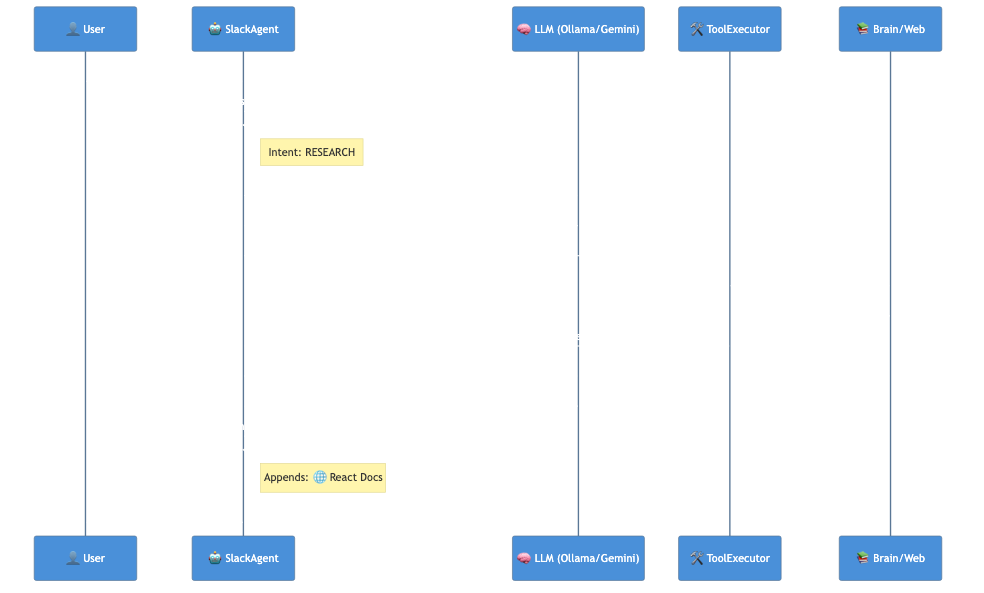
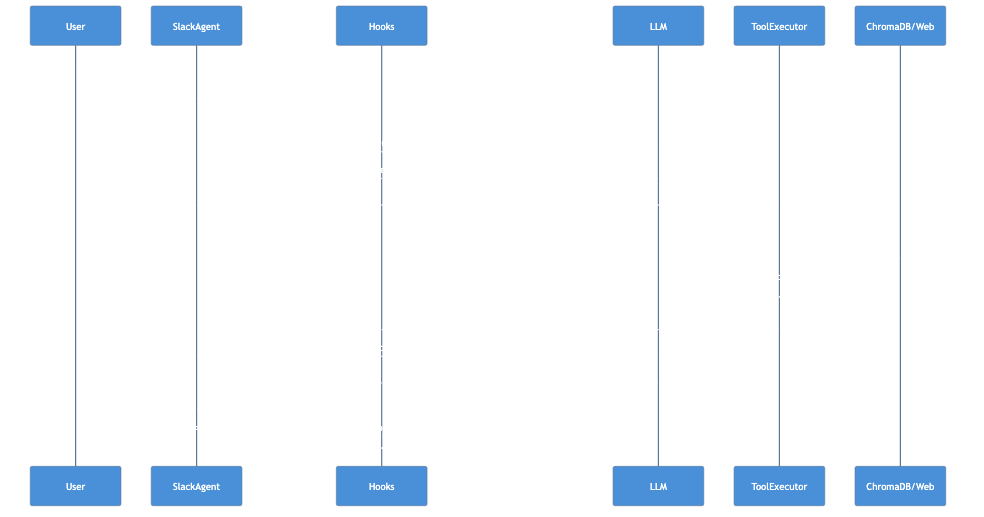
Enhanced Developer Guide with detailed NUC/hardware docs
- Added comprehensive NUC-1 details (ChromaDB, Vaultwarden, Syncthing)
- Added NUC-3 details (Backups, Restic, Storage)
- Added Mac Mini details (Ollama, model specs, privacy)
- Created Hardware & Network Prerequisites section
- Improved Request Flow documentation
- Regenerated tool_loop_sequence diagram with correct flow

diff --git a/docs/DEVELOPER_GUIDE.html b/docs/DEVELOPER_GUIDE.html
@@ -42,27 +42,98 @@
     <h2>1. System Architecture</h2>
     
     <h3>The "Mesh" (Physical & Logical)</h3>
-    <p>The system is distributed across four physical nodes:</p>
+    <p>The system is distributed across four physical nodes in a fault-tolerant mesh architecture:</p>
+    
+    <h3>🖥 NUC-1: Orchestrator & Knowledge Hub</h3>
+    <p><strong>Role:</strong> Central orchestration, semantic search, secret management.</p>
     <ul>
-        <li><strong>NUC-1:</strong> Orchestrator, ChromaDB (Vector DB), Vaultwarden (Secrets).</li>
-        <li><strong>NUC-2:</strong> Agent Host (Slack Bot Service).</li>
-        <li><strong>NUC-3:</strong> Storage (Backups, Large Files).</li>
-        <li><strong>Mac Mini:</strong> Inference (Ollama/Llama 3.2).</li>
+        <li><strong>ChromaDB (Vector Database):</strong> Semantic search index over your brain notes. All `/brain_search` queries hit this service.</li>
+        <li><strong>Vaultwarden (Secrets Manager):</strong> Encrypted storage for API keys, tokens, and credentials. Never stored in plaintext.</li>
+        <li><strong>Syncthing (Introducer):</strong> Coordinates file sync between NUC-2, NUC-3, and NUC-1.</li>
+        <li><strong>Docker Stack:</strong> Runs Khoj (or replacement) service for indexed content.</li>
+        <li><strong>Key Endpoint:</strong> <code>http://nuc-1.local:42110/api/search</code> for brain content retrieval.</li>
     </ul>
+    <p><strong>For Developers:</strong> When working with `/brain_search`, understand that NUC-1 is the latency bottleneck. ChromaDB query performance directly affects user experience.</p>
 
-    <h3>The Tool Loop Sequence</h3>
-    <p>Understanding how the Agent thinks is critical for extending it.</p>
+    <h3>🖥 NUC-2: Agent Host (Slack Bot Service)</h3>
+    <p><strong>Role:</strong> The active brain—runs the Slack bot and coordinates all tool execution.</p>
+    <ul>
+        <li><strong>SlackAgent Service:</strong> The main Python process running in `systemd` as <code>brain-slack-bot</code>.</li>
+        <li><strong>Python Environment:</strong> Virtual environment at <code>~/agents/venv</code>.</li>
+        <li><strong>Tool Execution Engine:</strong> All tool invocations (brain_search, web_search, facts) run here.</li>
+        <li><strong>Syncthing Sync:</strong> Keeps <code>/home/earchibald/brain</code> in sync with NUC-1 and NUC-3.</li>
+        <li><strong>Logs:</strong> <code>journalctl -u brain-slack-bot -f</code> for live debugging.</li>
+    </ul>
+    <p><strong>For Developers:</strong> NUC-2 is where you deploy your changes. All testing should happen here before production rollout.</p>
+
+    <h3>🖥 NUC-3: Storage Hub & Backup</h3>
+    <p><strong>Role:</strong> Persistent file storage, backups, and off-site replication.</p>
+    <ul>
+        <li><strong>NAS Storage:</strong> Syncthing target for brain folder backups.</li>
+        <li><strong>Restic Backups:</strong> Local encrypted backups to external drive and pCloud via rclone.</li>
+        <li><strong>Docker Syncthing:</strong> Runs Syncthing in a container with stable configuration.</li>
+        <li><strong>Backup Scripts:</strong> Automated daily backup via <code>backup_brain.sh</code> (3 AM) and <code>sync_to_pcloud.sh</code> (3:30 AM).</li>
+        <li><strong>Cron Jobs:</strong> Monitoring and health checks for backup integrity.</li>
+    </ul>
+    <p><strong>For Developers:</strong> NUC-3 failure affects backups, not live operations. NUC-1 and NUC-2 can run independently.</p>
+
+    <h3>💻 Mac Mini: Inference Engine</h3>
+    <p><strong>Role:</strong> Local LLM inference for privacy and speed.</p>
+    <ul>
+        <li><strong>Ollama Service:</strong> Runs LLM models locally at <code>http://m1-mini.local:11434</code>.</li>
+        <li><strong>Models Loaded:</strong>
+            <ul>
+                <li><code>llama3.2</code> (Active) - Fast, 8B parameters, good context understanding.</li>
+                <li><code>nomic-embed-text</code> (Embedding) - For semantic search vector generation.</li>
+            </ul>
+        </li>
+        <li><strong>100% Private:</strong> All inference stays on your network. No external API calls for Ollama mode.</li>
+        <li><strong>Environment:</strong> <code>OLLAMA_HOST=0.0.0.0</code> enables network access from NUCs.</li>
+    </ul>
+    <p><strong>For Developers:</strong> If inference is slow, check Mac Mini CPU load. Ollama will queue requests if overloaded.</p>
+
+    <h3>The Request Flow (How Every Message Gets Processed)</h3>
+    <p>Understanding the complete request lifecycle is critical for debugging and extending the agent.</p>
     <div class="img-container">
         <img src="report_images/tool_loop_sequence.png" alt="Tool Loop Sequence Diagram">
     </div>
 
+    <ol>
+        <li><strong>Intent Classification:</strong> Pre-process hook (<code>hooks/intent_classifier.py</code>) analyzes the message to classify intent (RESEARCH, KNOWLEDGE, PERSONAL, etc.).</li>
+        <li><strong>LLM Prompt Generation:</strong> SlackAgent constructs the prompt with tools available based on intent classification.</li>
+        <li><strong>Tool Execution:</strong> ToolExecutor (<code>tools/tool_executor.py</code>) parses LLM output and executes selected tools safely with timeouts.</li>
+        <li><strong>Source Tracking:</strong> Each tool records its sources. SourceTracker (<code>hooks/source_tracker.py</code>) maintains context-local tracking.</li>
+        <li><strong>Citation Generation:</strong> Post-process hook (<code>hooks/citation_hook.py</code>) formats citations and appends them to the response.</li>
+    </ol>
+
+    <p><strong>Key Implementation Files:</strong></p>
     <ul>
-        <li><strong>Intent Classification:</strong> <span class="badge">hooks/intent_classifier.py</span> Pre-processes messages to determine context.</li>
-        <li><strong>Tool Execution:</strong> <span class="badge">tools/tool_executor.py</span> Parses LLM output and executes Python functions safely.</li>
-        <li><strong>Source Tracking:</strong> <span class="badge">hooks/source_tracker.py</span> Records every tool usage to generate citations later.</li>
+        <li><code>agents/slack_agent.py</code> - Main orchestrator. Entry point for all logic.</li>
+        <li><code>slack_bot/hooks/</code> - Pre and post-processing hooks for extensibility.</li>
+        <li><code>slack_bot/tools/tool_executor.py</code> - Safe, isolated execution environment with 15-second timeout.</li>
+        <li><code>slack_bot/tools/builtin/</code> - Built-in tools: brain_search, web_search, facts.</li>
     </ul>
 
-    <h2>2. Development Workflow ("The Flow")</h2>
+    <h2>2. Hardware & Network Prerequisites</h2>
+    
+    <h3>Network Topology</h3>
+    <ul>
+        <li>All NUCs and Mac Mini are on the same local network (192.168.x.x).</li>
+        <li>Service discovery via mDNS: <code>nuc-1.local</code>, <code>nuc-2.local</code>, <code>nuc-3.local</code>, <code>m1-mini.local</code>.</li>
+        <li>SSH passwordless access configured for <code>earchibald@</code> user on all hosts.</li>
+        <li>Syncthing mesh keeps all three NUCs in continuous sync.</li>
+    </ul>
+
+    <h3>Service Dependencies</h3>
+    <p>Before extending the system, understand the dependency chain:</p>
+    <pre><code>SlackAgent (NUC-2)
+    ├─ Ollama (Mac Mini) - For inference
+    ├─ ChromaDB (NUC-1) - For semantic search
+    ├─ Vaultwarden (NUC-1) - For secrets
+    └─ Syncthing (All) - For file sync</code></pre>
+    <p>If any dependency is down, the bot degrades gracefully (falls back to chat-only mode).</p>
+
+    <h2>3. Development Workflow ("The Flow")</h2>
     <div class="callout">
         <strong>Core Philosophy:</strong> Test First. Deploy Safer.
     </div>
@@ -82,11 +153,17 @@ pip install -r requirements-dev.txt
         <li><strong>Refactor:</strong> Move the test to <code>tests/unit/</code> or <code>tests/integration/</code>.</li>
     </ol>
 
-    <h3>Running Locally</h3>
-    <p>Use the master script to run the agent locally with mocked Slack events:</p>
-    <pre><code>./run_agent.sh --local</code></pre>
+    <h3>Running Locally (Mac Mini or NUC-2)</h3>
+    <p>For local testing without Slack integration:</p>
+    <pre><code>./run_agent.sh --local --debug</code></pre>
+    <p>This mocks Slack events and lets you test the full request flow without restarting the service.</p>
+    <p><strong>For remote testing on NUC-2:</strong></p>
+    <pre><code>ssh nuc-2.local
+cd /home/earchibald/agents
+./run_agent.sh --test
+journalctl -u brain-slack-bot -f  # Watch live logs</code></pre>
 
-    <h2>3. Working with Agents ("AI Building AI")</h2>
+    <h2>4. Working with Agents ("AI Building AI")</h2>
     
     <h3>Agent Tools</h3>
     <p>The repository includes specialized agents to help <em>you</em> code:</p>
@@ -103,7 +180,7 @@ pip install -r requirements-dev.txt
         <li><strong>Schema Definition:</strong> "Ensure the tool schema matches the `get_tool_spec()` format."</li>
     </ol>
 
-    <h2>4. Extension Guide</h2>
+    <h2>5. Extension Guide</h2>
 
     <h3>Adding a New Tool</h3>
     <p>Extending the bot's capabilities is straightforward:</p>
@@ -121,7 +198,7 @@ pip install -r requirements-dev.txt
         <li>Update the UI definitions in <code>slack_bot/facts_ui.py</code>.</li>
     </ul>
 
-    <h2>5. Deployment Pipeline</h2>
+    <h2>6. Deployment Pipeline</h2>
     
     <div class="img-container">
         <img src="report_images/deployment_pipeline.png" alt="Deployment Pipeline Diagram">
